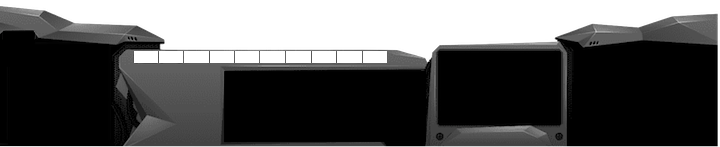
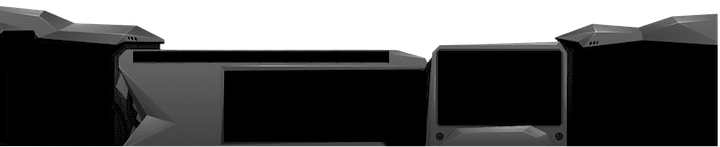
[add]xpbar added to hud

Changed region(s): [[0.1833, 0.3265, 0.55, 0.4354]]

diff --git a/MidOrFeedMechWarrior2000/src/visualeffects/HUDeffectsManager.java b/MidOrFeedMechWarrior2000/src/visualeffects/HUDeffectsManager.java
@@ -5,11 +5,12 @@ import java.util.ArrayList;
 import java.util.List;
 import javax.swing.*;
 import units.Mech;
+import units.MechHero;
 import units.Unit;
 
 public class HUDeffectsManager extends JComponent {
 
-  public ArrayList<Integer> findCrosshairCoordinates(Unit unit) {
+  private ArrayList<Integer> findCrosshairCoordinates(Unit unit) {
     ArrayList<Integer> crosshairCoordinates = new ArrayList<>();
     crosshairCoordinates.add(unit.getPosX());
     crosshairCoordinates.add(unit.getPosY());
@@ -21,29 +22,15 @@ public class HUDeffectsManager extends JComponent {
     return crosshairCoordinates;
   }
 
-  public void drawHUD(Mech mechHero, List<Unit> listOfEnemyUnits, Graphics graphics) {
+  public void drawRectangle(Mech mechHero, List<Unit> listOfEnemyUnits, Graphics graphics) {
     if (mechHero.getUnitTargeted() != null) {
-  //    for (Unit unit : listOfEnemyUnits) {
-  //      if (mechHero.calculateDistanceBetweenUnits(unit) < mechHero.getAttackRange()) {
-  /*        if (unit.getHealthPoints() <= mechHero.getAttackDamage() &&
-                  mechHero.getAttackRange() >= mechHero.calculateDistanceBetweenUnits(unit)) {
-            graphics.setColor(Color.RED);
-          } else if (unit.getHealthPoints() > mechHero.getAttackDamage() &&
-                  mechHero.getAttackRange() >= mechHero.calculateDistanceBetweenUnits(unit)) {
-            graphics.setColor(Color.GREEN);
-          } else {
-            graphics.setColor(Color.WHITE);
-          }*/
       graphics.setColor(Color.GREEN);
       ArrayList<Integer> crosshairCoordinates = findCrosshairCoordinates(mechHero.getUnitTargeted());
           graphics.drawRect(crosshairCoordinates.get(0),
                   crosshairCoordinates.get(1),
                   crosshairCoordinates.get(2),
                   crosshairCoordinates.get(2));
-       //   graphics.setColor(Color.GREEN);
         }
- //     }
- //   }
   }
 
   public void drawHealthBars(List<Unit> listOfAllUnits, Graphics graphics) {
@@ -51,10 +38,10 @@ public class HUDeffectsManager extends JComponent {
       if (unit.getUnitType().equals("turret")) {
         graphics.setColor(Color.GREEN);
         graphics.drawLine(unit.getPosX(), unit.getPosY() - 10, unit.getPosX() +
-                calculateLengthOfGreenBar(unit, 72), unit.getPosY() - 10);
+                calculateLengthOfBar(unit.getHealthPoints(), 72, unit.getRespawnHealthPoints()), unit.getPosY() - 10);
         graphics.setColor(Color.RED);
         graphics.drawLine(unit.getPosX() +
-                        calculateLengthOfGreenBar(unit, 72), unit.getPosY() - 10,
+                        calculateLengthOfBar(unit.getHealthPoints(), 72, unit.getRespawnHealthPoints()), unit.getPosY() - 10,
                 unit.getPosX() + 144, unit.getPosY() - 10);
       } else {
         if (unit.getUnitType().substring(unit.getUnitType().length() - 5, unit.getUnitType().length()).equals("Enemy")) {
@@ -63,21 +50,30 @@ public class HUDeffectsManager extends JComponent {
           graphics.setColor(Color.GREEN);
         }
         graphics.drawLine(unit.getPosX(), unit.getPosY() - 10, unit.getPosX() +
-                calculateLengthOfGreenBar(unit, 72), unit.getPosY() - 10);
+                calculateLengthOfBar(unit.getHealthPoints(), 72, unit.getRespawnHealthPoints()), unit.getPosY() - 10);
         graphics.setColor(Color.BLACK);
         graphics.drawLine(unit.getPosX() +
-                        calculateLengthOfGreenBar(unit, 72), unit.getPosY() - 10,
+                        calculateLengthOfBar(unit.getHealthPoints(), 72, unit.getRespawnHealthPoints()), unit.getPosY() - 10,
                 unit.getPosX() + 72, unit.getPosY() - 10);
+      }
+      if(unit.getUnitType().contains("Hero")){
+        graphics.setColor(Color.BLUE);
+        graphics.drawLine(unit.getPosX(), unit.getPosY() - 8, unit.getPosX() +
+                calculateLengthOfBar(unit.getEnergy(), 72, unit.getRespawnEnergy()), unit.getPosY() - 8);
+        graphics.setColor(Color.BLACK);
+        graphics.drawLine(unit.getPosX() +
+                        calculateLengthOfBar(unit.getEnergy(), 72, unit.getRespawnEnergy()), unit.getPosY() - 8,
+                unit.getPosX() + 72, unit.getPosY() - 8);
       }
     }
   }
 
-  public int calculateLengthOfGreenBar(Unit unit, Integer healthBarLength) {
-    if (unit.getHealthPoints() == unit.getRespawnHealthPoints()) {
-      return healthBarLength;
+  private int calculateLengthOfBar(Integer currentValue, Integer barLength, Integer respawnValue) {
+    if (currentValue == respawnValue) {
+      return barLength;
     } else {
-      Integer oneTickHealth = unit.getRespawnHealthPoints() / healthBarLength;
-      return unit.getHealthPoints() / oneTickHealth;
+      Integer oneTickHealth = respawnValue / barLength;
+      return currentValue / oneTickHealth;
     }
   }
 
@@ -118,5 +114,19 @@ public class HUDeffectsManager extends JComponent {
 
       }
     }
+  }
+
+  public void drawXPBar(MechHero mechHero, Graphics graphics){
+    Stroke thick = new BasicStroke(12);
+    Graphics2D graphics2d = (Graphics2D) graphics.create();
+    graphics2d.setStroke(thick);
+    graphics2d.setColor(Color.yellow);
+    if(mechHero.getExperiencePoints() == 0){
+    } else if(mechHero.getLevel() == 1) {
+      graphics2d.drawLine(130, 678, 130 + calculateLengthOfBar(mechHero.getExperiencePoints(), 200, mechHero.getXpNeededForLevelUp().get(mechHero.getLevel() + 1)), 678);
+    } else {
+      graphics2d.drawLine(130, 678, 130 + calculateLengthOfBar(mechHero.getExperiencePoints() - mechHero.getXpNeededForLevelUp().get(mechHero.getLevel()), 200, mechHero.getXpNeededForLevelUp().get(mechHero.getLevel() + 1)), 678);
+    }
+    graphics2d.dispose();
   }
 }

diff --git a/MidOrFeedMechWarrior2000/src/board/OneRoundOfAction.java b/MidOrFeedMechWarrior2000/src/board/OneRoundOfAction.java
@@ -23,7 +23,10 @@ public class OneRoundOfAction {
                                       List<Mech> listOfMechs,
                                       int roundCounter) {
 
-    if(mechHero.isAlive()){
+    checkStunnedUnits(listOfAllUnits,roundCounter);
+
+    if (mechHero.isAlive() &&
+            !mechHero.isStunned()) {
       mechHeroDecisionMaker.reactToMouseCommand(mechHero,
               mechEnemy,
               listOfCreepEnemy,
@@ -34,7 +37,7 @@ public class OneRoundOfAction {
 
     for (Creep creepAllied : listOfCreepAllied) {
       if (creepAllied.isAlive() &&
-      !creepAllied.isStunned()) {
+              !creepAllied.isStunned()) {
         creepAlliedDecisionMaker.reactToPlayerMovement(creepAllied,
                 mechEnemy,
                 listOfCreepEnemy,
@@ -57,7 +60,7 @@ public class OneRoundOfAction {
       }
     }
     if (mechEnemy.isAlive() &&
-    !mechEnemy.isStunned()) {
+            !mechEnemy.isStunned()) {
       mechEnemyDecisionMaker.reactToPlayerMovement(mechEnemy,
               mechHero,
               listOfCreepAllied,
@@ -81,5 +84,15 @@ public class OneRoundOfAction {
             listOfAllUnits,
             listOfMechs,
             roundCounter);
+  }
+
+  private void checkStunnedUnits(List<Unit> lisOfAllUnits, int roundCounter) {
+    for (Unit unit : lisOfAllUnits
+    ) {
+      if (unit.isStunned() &&
+              unit.getStunOverInRound() >= roundCounter) {
+        unit.setStunned(false);
+      }
+    }
   }
 }

diff --git a/MidOrFeedMechWarrior2000/src/board/Board.java b/MidOrFeedMechWarrior2000/src/board/Board.java
@@ -66,10 +66,12 @@ public class Board extends JComponent implements KeyListener, MouseListener {
             80);
 
     //HUDeffectsManager display
-    HUDeffectsManager.drawHUD(unitLayout.getMechHero(), unitLayout.getListOfEnemyUnits(), graphics);
+    HUDeffectsManager.drawXPBar(unitLayout.getMechHero(), graphics);
+    huDlayout.placeHud();
+    HUDeffectsManager.drawRectangle(unitLayout.getMechHero(), unitLayout.getListOfEnemyUnits(), graphics);
     HUDeffectsManager.drawUnitImageForHighlightedUnit(unitLayout.getAllUnits(),huDlayout.getHud(),graphics);
     HUDeffectsManager.drawHealthBars(unitLayout.getAllUnits(), graphics);
-    HUDeffectsManager.drawInfoOfHighlightedUnit(unitLayout.getAllUnits(),graphics);
+    HUDeffectsManager.drawInfoOfHighlightedUnit(unitLayout.getAllUnits(), graphics);
 
     //Building depth effects
     buildingDepthEffectManager.getBuildingBottomRightSide().draw(graphics);

diff --git a/MidOrFeedMechWarrior2000/src/respawn/RespawnManager.java b/MidOrFeedMechWarrior2000/src/respawn/RespawnManager.java
@@ -26,6 +26,7 @@ public class RespawnManager {
       mechHero.setAlive(true);
       mechHero.setStunned(false);
       mechHero.setUnitTargeted(null);
+      mechHero.setEnergy(mechHero.getRespawnEnergy());
       mechHero.setMouseEventMarkingLocation(null);
       mechHero.setHealthPoints(mechHero.getRespawnHealthPoints());
       mechHero.setPosX(mechHero.getRespawnX());
@@ -40,6 +41,7 @@ public class RespawnManager {
         mech.setAlive(true);
         mech.setStunned(false);
         mech.setHealthPoints(mech.getRespawnHealthPoints());
+        mech.setEnergy(mech.getRespawnEnergy());
         mech.setPosX(mech.getRespawnX());
         mech.setPosY(mech.getRespawnY());
         mech.setSwitchFeetInRound(roundCounter+mech.getSwitchFeetEveryXRound());

diff --git a/MidOrFeedMechWarrior2000/src/board/HUDlayout.java b/MidOrFeedMechWarrior2000/src/board/HUDlayout.java
@@ -1,6 +1,5 @@
 package board;
 
-import units.MechHero;
 import visualeffects.HUD;
 
 public class HUDlayout {
